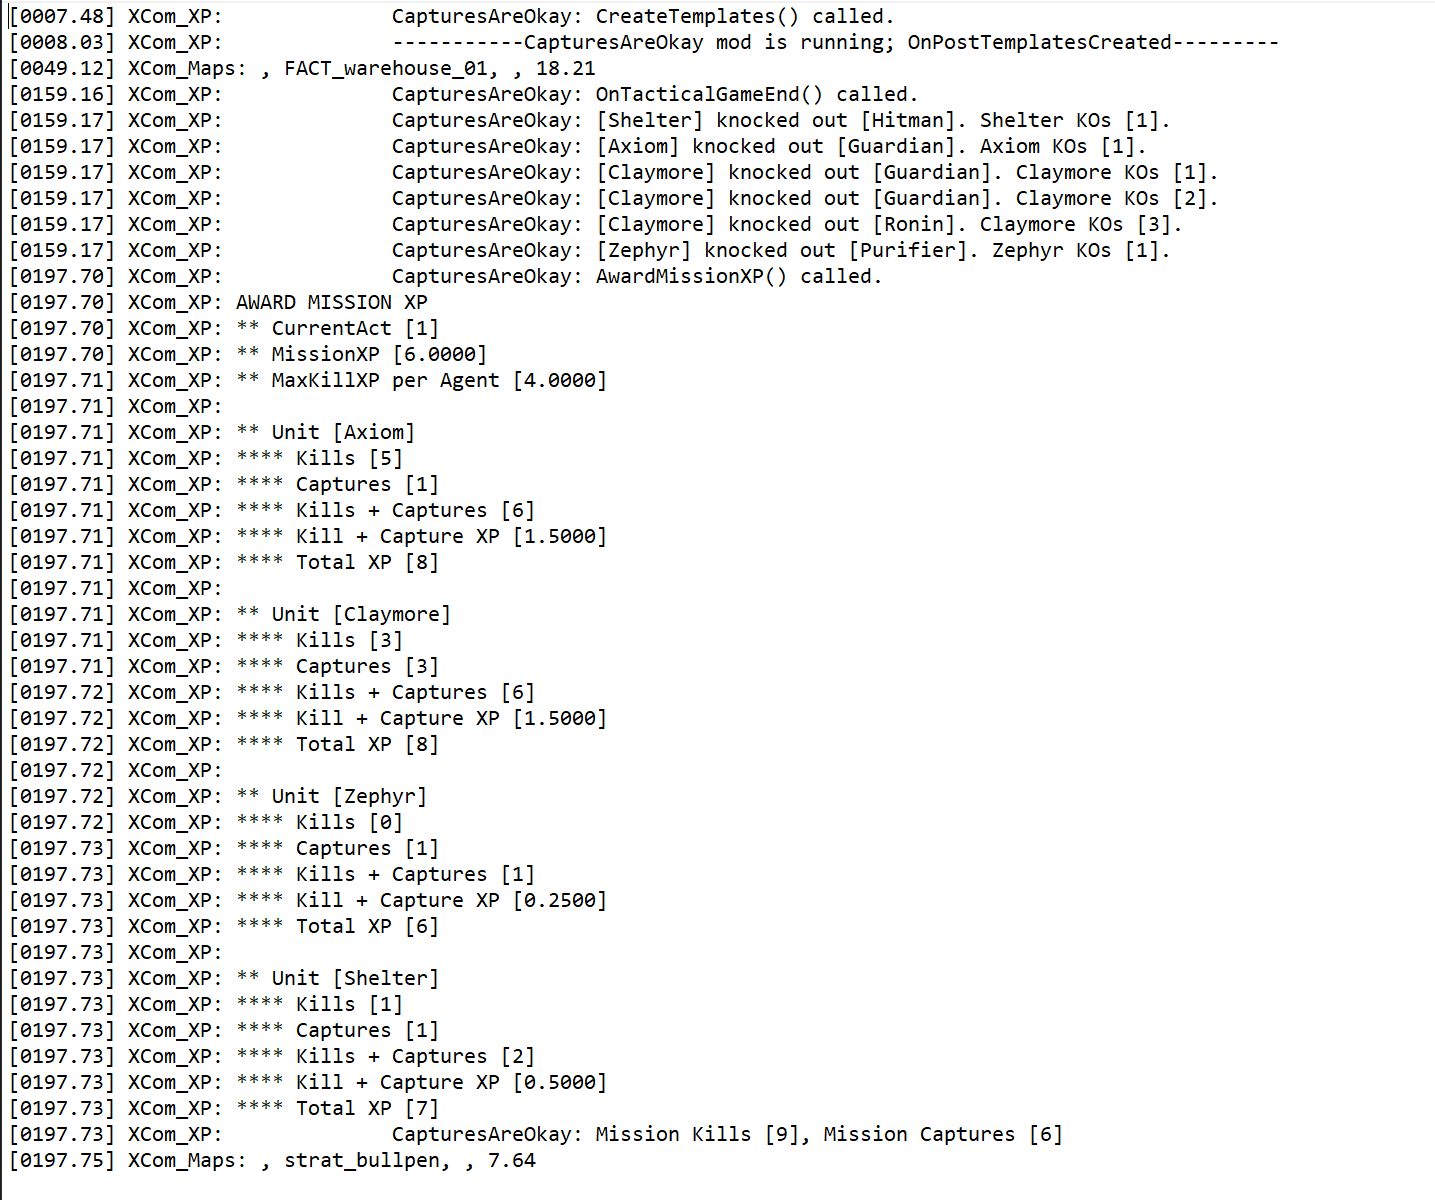
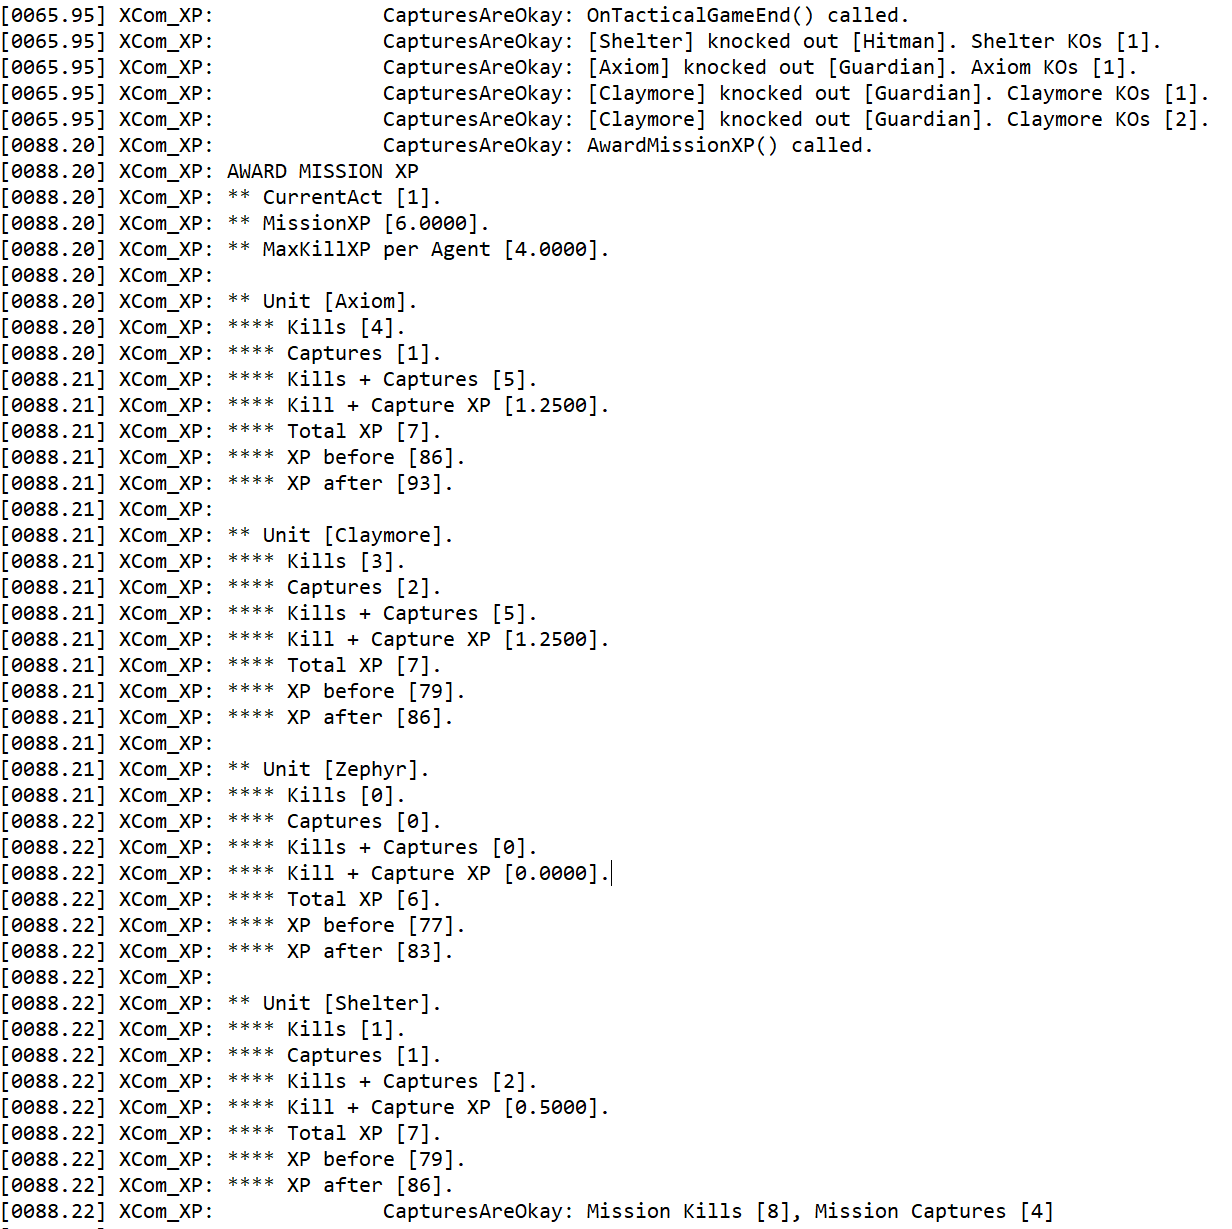
v1.04. Log XP before and after.
Update screenshot.
Update readme.

Changed region(s): [[0.0, 0.0, 0.987, 1.0], [0.4318, 0.7092, 0.4935, 0.74]]

diff --git a/readme.md b/readme.md
@@ -2,7 +2,7 @@
 
 This is the README for the XCOM: Chimera Squad mod, 'Captures are Okay.' 
 
-The game has a bug where kills are rewarded XP but captures aren't. What kind of message is that sending? This mod is to fix that bug.
+The game has a bug where kills are rewarded 0.25 XP, but captures are rewarded 0 XP. What kind of message is that? This mod fixes that bug.
 
 ## Features
 
@@ -18,11 +18,13 @@ On the bright side, if you install the mod and load a game mid-mission, it shoul
 
 Note: OnPreMission() and OnPostMission() hooks don't work in Chimera Squad.
 
-> Tip: The mod logs XP gains in the Balance log. There is also a mod in the Steam Workshop to show XP in the Armory. You can combine these to make sure the mod is working. If you find a bug, please include such logs/Armory pics. You can post to reddit (e.g., xcom2mods) or email me at geoffhom@gmail.com.
+> Tip: The mod logs XP gains in the Balance log. If you find a bug, please include such logs/Armory pics. You can post to reddit (e.g., xcom2mods) or email me at geoff.hom@gmail.com.
 
 > Tip: There's a bug in XComGameState_Unit.OnUnitUnconscious(). What it refers to as the 'Captor' is actually the unit that was knocked unconscious. So don't trust CapturedUnitsLastTurn and CapturedUnits.
 
 > Tip: Kill/Capture XP is rounded. So 2 kills/captures = 0.5, rounded to 1 XP. 5 kills/captures = 1.25, rounded to 1 XP.
+
+> Tip: You can modify XP settings in XComGameData_XpData.ini. There are 3 Acts plus the Finale.
 
 > Tip: Mod code is at https://github.com/geoffhom/captures-are-okay. 
 
